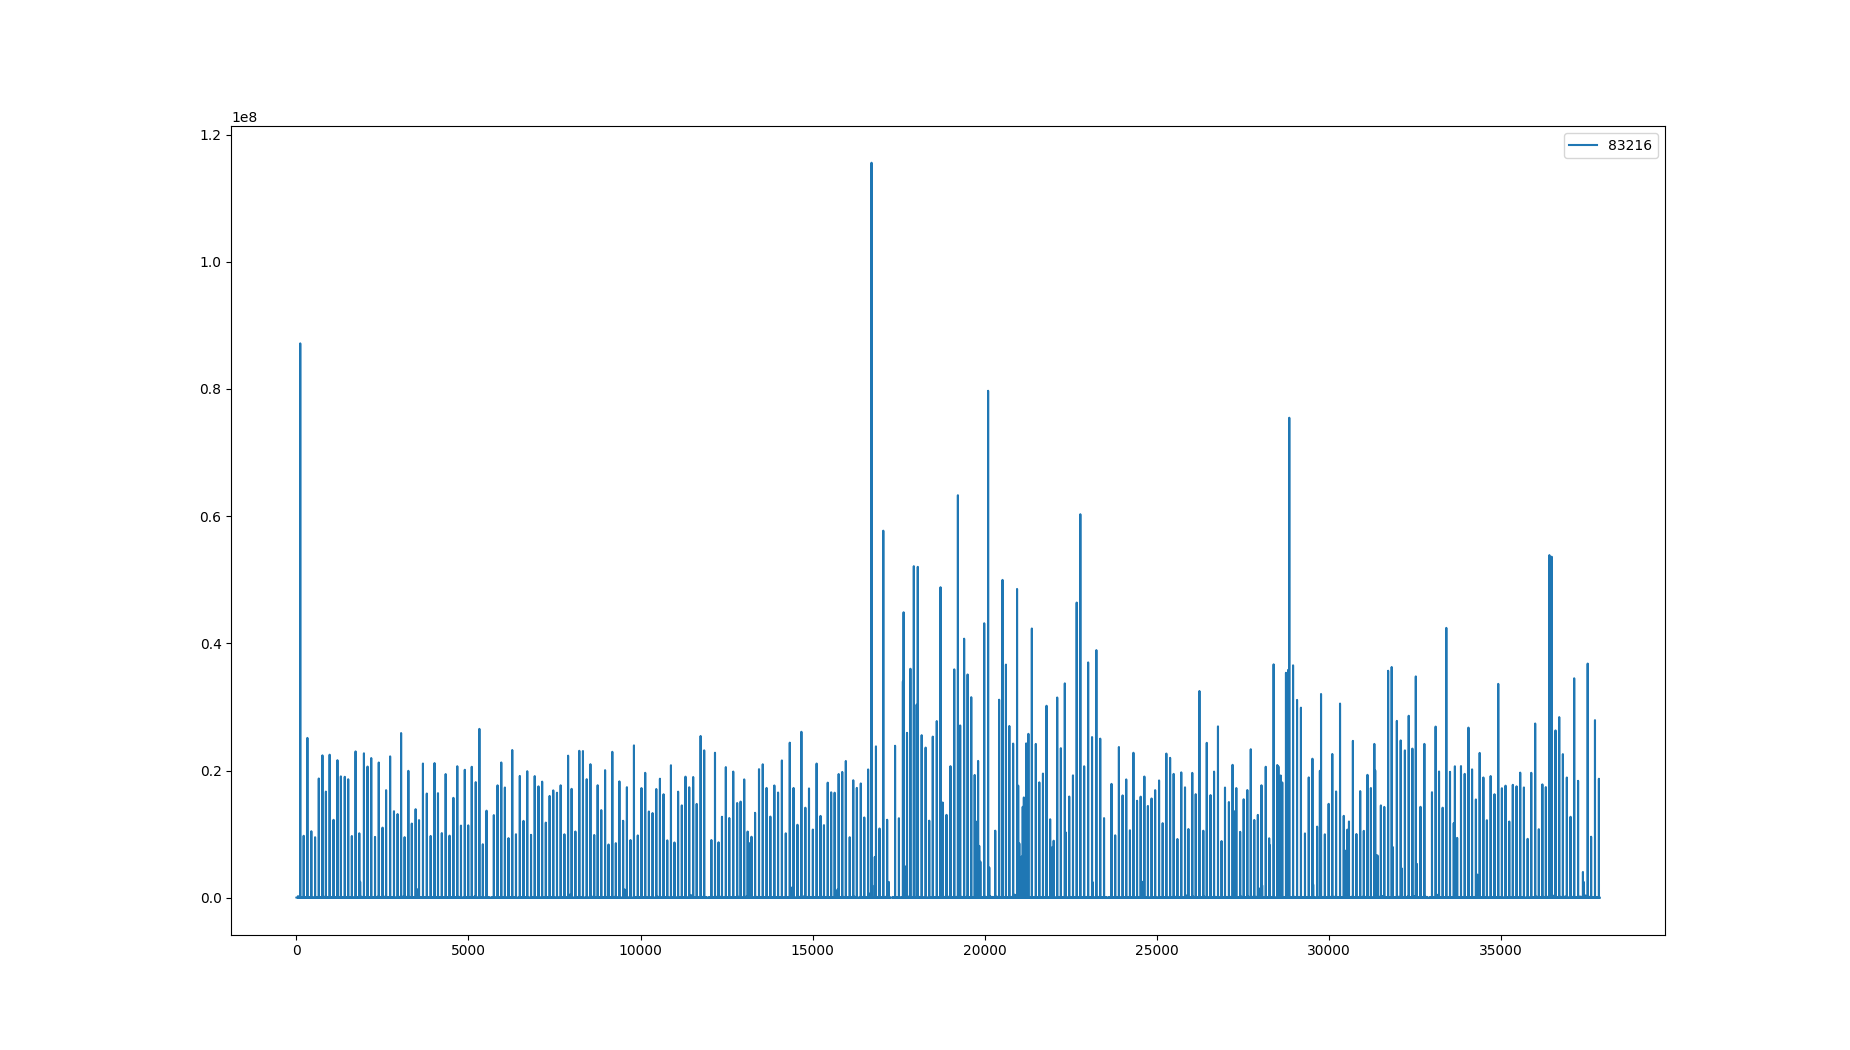
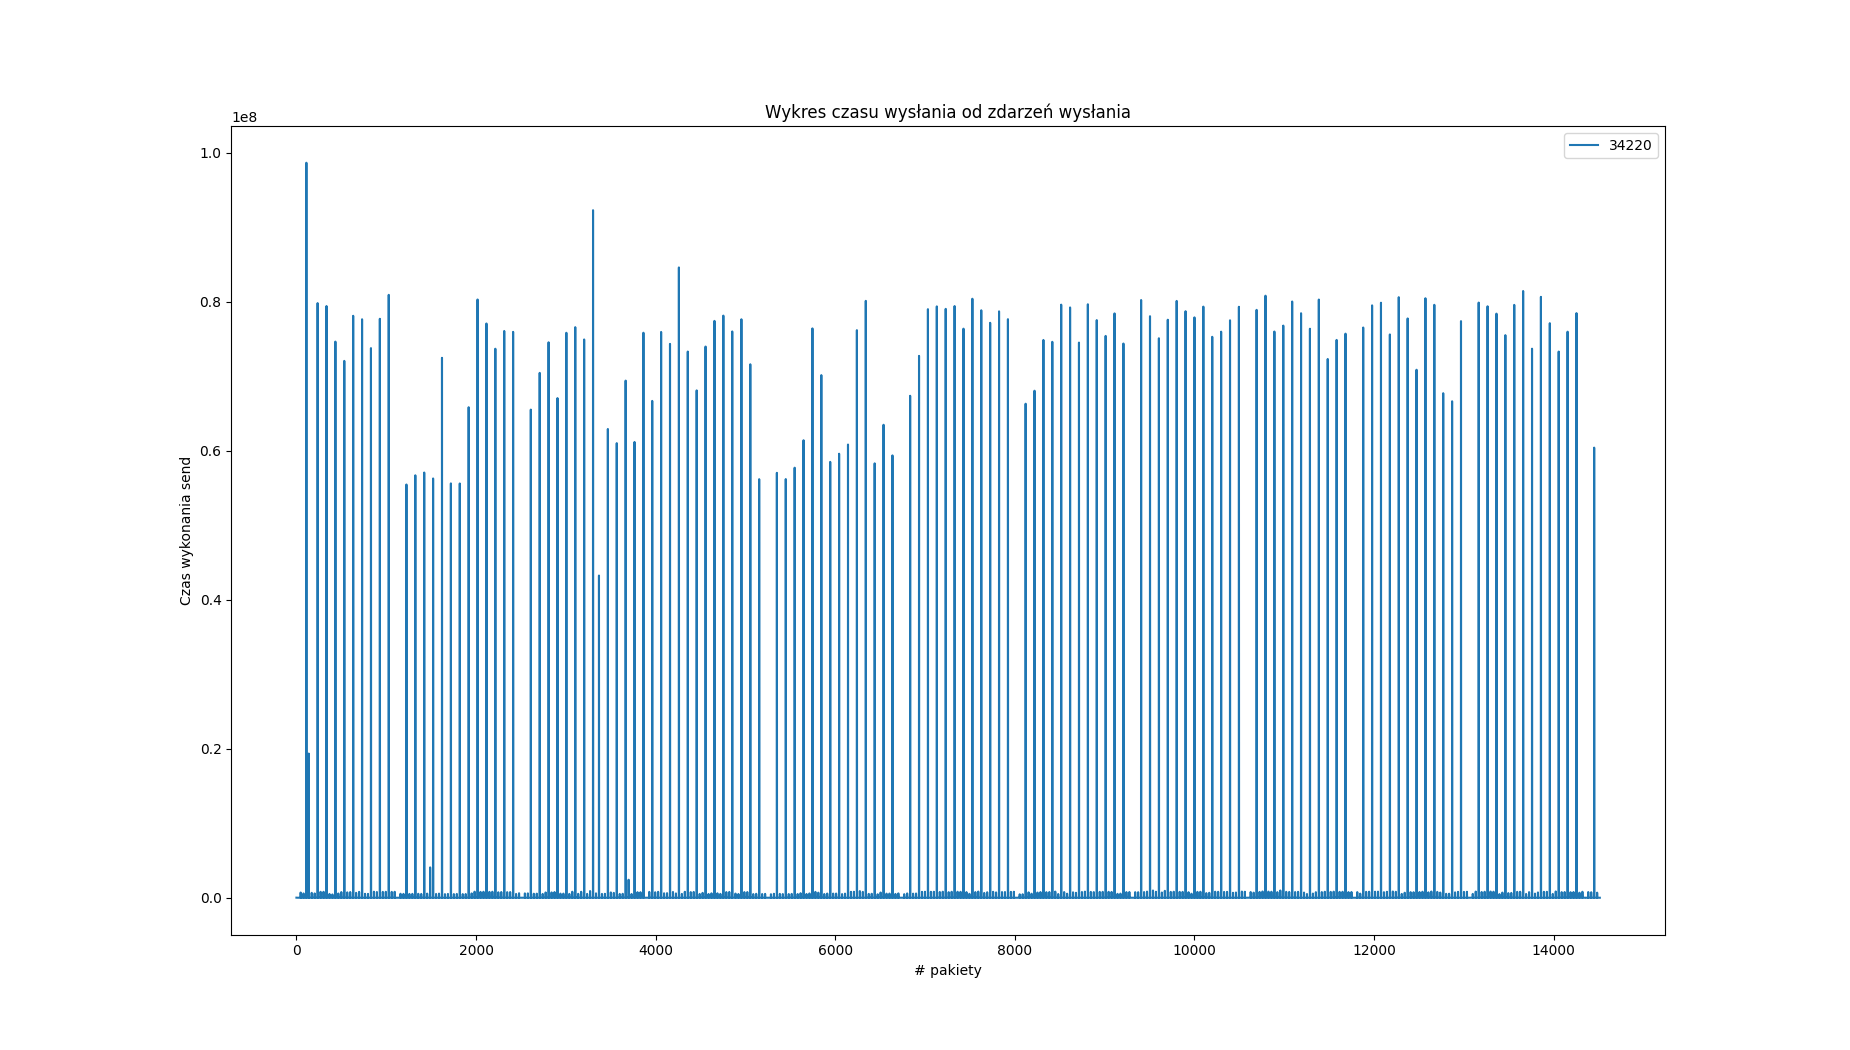
add doc

diff --git a/zad23/analyze.py b/zad23/analyze.py
@@ -10,7 +10,8 @@ for filename in os.listdir(current_directory):
 min_size = min([len(df) for (fn, df) in dfs])
 for filename, df in dfs:
     df = df.head(min_size)
+    print(filename)
     print(df.describe())
-    fig = df.plot().get_figure()
+    fig = df.plot(xlabel="# pakiety", ylabel="Czas wykonania send", title="Wykres czasu wysłania od zdarzeń wysłania").get_figure()
     fig.set_size_inches(18.5, 10.5)
     fig.savefig(filename+"-plot.png")

diff --git a/zad23/server.c b/zad23/server.c
@@ -87,7 +87,7 @@ int main()
     }
     while(1){
         read_from_buffer(connfd);
-        usleep(10);
+        usleep(500);
     }
 
     close(sockfd);

diff --git a/zad23/doc.md b/zad23/doc.md
@@ -1,0 +1,26 @@
+Eksperymenty zostały wykonane dla parametrów:
+- czas blokady serwera: 500ms
+- bufor nadawczy klienta: 1024B, 4096B, 10240B
+
+## Wykresy
+
+### Bufor 1024
+![](log1024-plot.png)
+
+![](thr-1024.png)
+
+### Bufor 4096
+![](log4096-plot.png)
+![](thr-4096.png)
+
+### Bufor 10240
+![](log10240-plot.png)
+![](thr-10240.png)
+
+
+
+## Wnioski
+
+- w czasach wysłania występują piki, które świadczą o momencie przepełnienia bufora i konieczności zablokowania klienta
+- dla małych wartości na osi OX można zaobserować brak pików - jest to moment w którym serwer i klient przetwarzali dane bez przestojów, bufory oby nie były jeszcze przepełnione
+- w raz z wzrostem wielkości bufora rosła stabilność przetwarzania serwera i mniejsze czasy blokady, oraz średnia przepustowość
